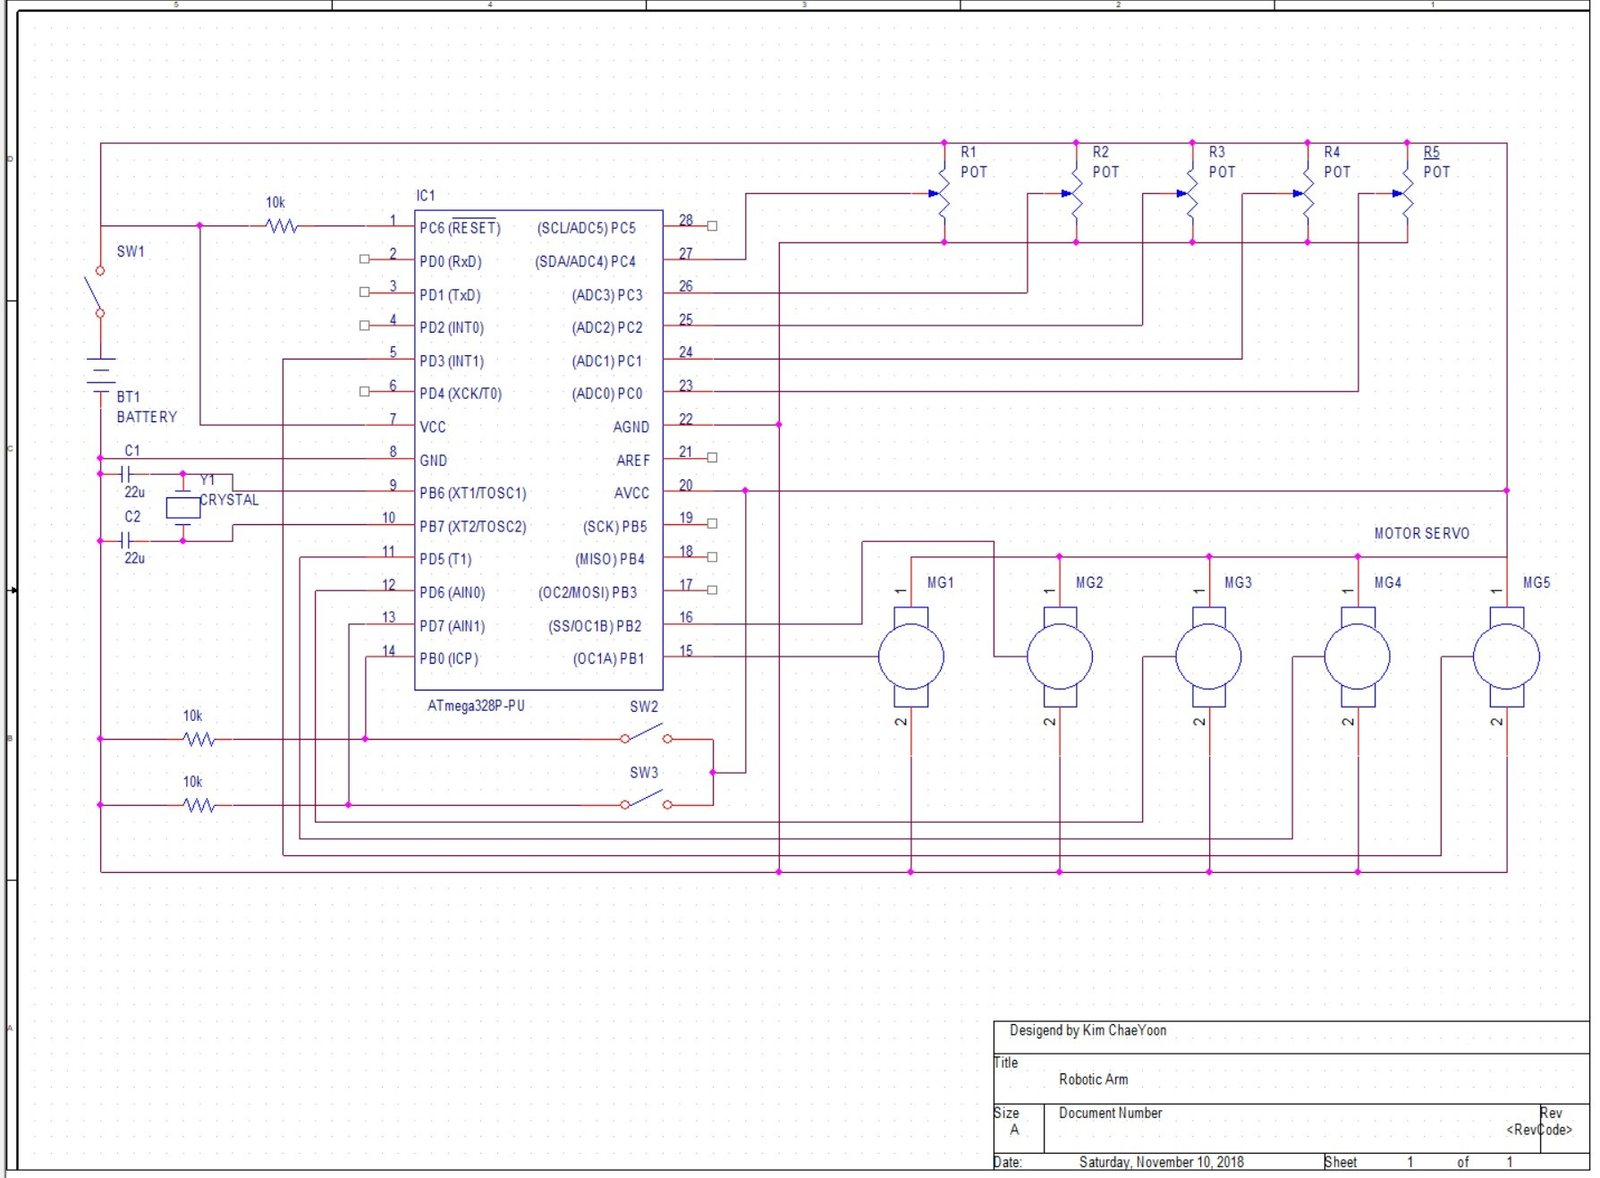
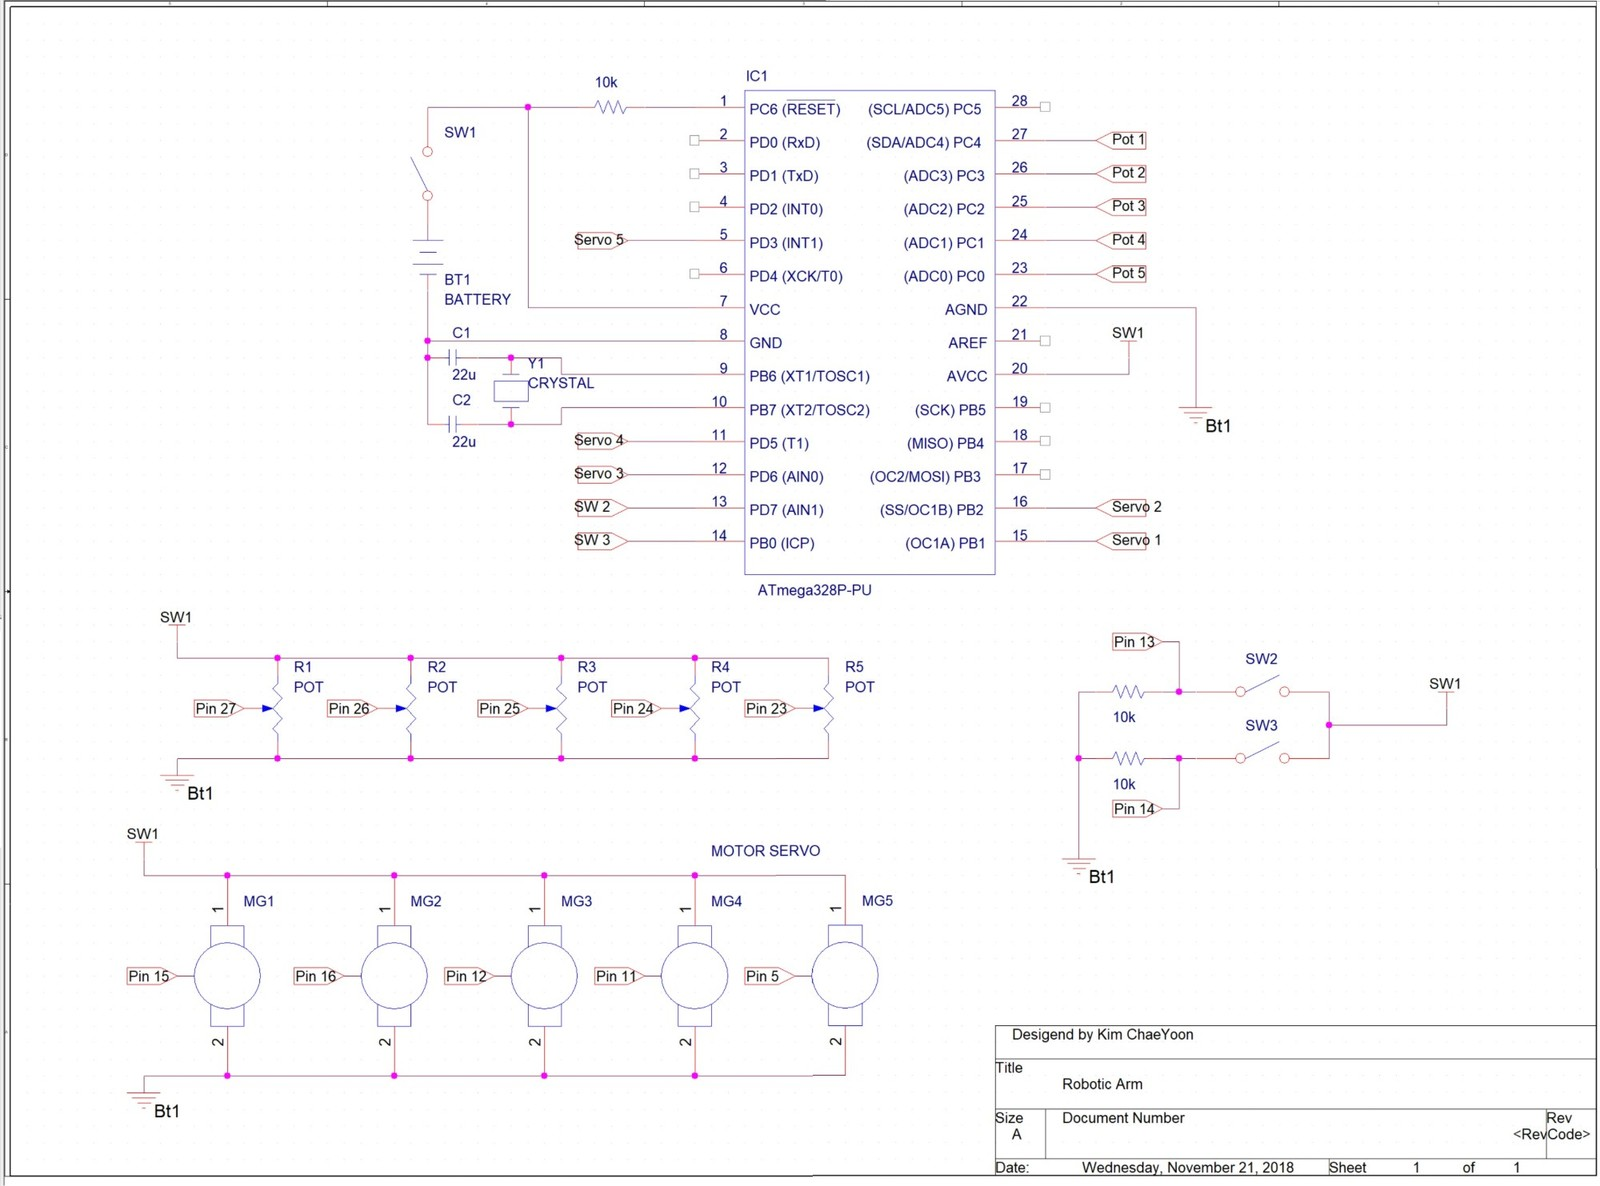
Robotic arm: add the firmware flowchart and the final schematic
- Gallery gains the firmware flowchart (setup/loop, Record and Play paths)
- The Nov 10 draft schematic is replaced by the final Nov 21 revision
- Gallery reordered to follow the approach: demo, arms, flowchart,
  schematic, 3D model, controller board, oscilloscope check

Claude-Session: https://claude.ai/code/session_01DyUfc2PrZu21zWjTtqWHuS

diff --git a/projects/assets/data.js b/projects/assets/data.js
@@ -3560,36 +3560,44 @@ window.PROJECTS = [
         "thumb": "img/robotic-arm-pid/thumbs/02-master-slave-arms.jpg"
       },
       {
-        "src": "img/robotic-arm-pid/03-master-arm-3d-model.jpg",
+        "src": "img/robotic-arm-pid/03-firmware-flowchart.png",
         "caption": {
-          "en": "3D model of the potentiometer master arm (Tinkercad).",
-          "ko": "포텐쇼미터 마스터 암 3D 모델 (Tinkercad)."
+          "en": "Firmware flowchart: after setup(), loop() reads the potentiometers (ADC), applies P control and drives the servos. When the Record button (Butt_R) is HIGH, Record() applies D control and stores the angles in an array; when the Play button (Butt_P) is HIGH, play() steps each servo toward the recorded angle until it matches.",
+          "ko": "펌웨어 순서도: setup() 이후 loop()에서 포텐쇼미터 값을 ADC로 읽고 P 제어를 거쳐 서보모터를 구동합니다. 녹화 버튼(Butt_R)이 HIGH이면 Record()가 D 제어를 거쳐 각도를 배열에 저장하고, 재생 버튼(Butt_P)이 HIGH이면 play()가 각 서보를 저장된 각도에 도달할 때까지 한 단계씩 움직입니다."
         },
-        "thumb": "img/robotic-arm-pid/thumbs/03-master-arm-3d-model.jpg"
+        "thumb": "img/robotic-arm-pid/thumbs/03-firmware-flowchart.jpg"
       },
       {
         "src": "img/robotic-arm-pid/04-circuit-schematic.jpg",
         "caption": {
-          "en": "Full schematic: ATmega328P-PU, five potentiometers, five servos, battery switch and Record/Play switches with 10 kΩ pull-downs.",
-          "ko": "전체 회로도: ATmega328P-PU, 포텐쇼미터 5개, 서보모터 5개, 전원 스위치, 10kΩ 풀다운 저항을 단 녹화/재생 스위치."
+          "en": "Circuit schematic (final revision, Nov 2018): an ATmega328P-PU with a crystal oscillator reads the five master-arm potentiometers on ADC0–ADC4 and drives the five servos (MG1–MG5) from pins 15, 16, 12, 11 and 5. The Record/Play switches (SW2, SW3) on pins 13 and 14 have 10 kΩ pull-downs, and SW1 switches the battery supply.",
+          "ko": "회로도(최종본, 2018.11): 크리스털 발진기를 단 ATmega328P-PU가 ADC0–ADC4로 마스터 암의 포텐쇼미터 5개를 읽고, 15·16·12·11·5번 핀으로 서보모터 5개(MG1–MG5)를 구동합니다. 13·14번 핀의 녹화/재생 스위치(SW2, SW3)에는 10kΩ 풀다운 저항을 달았고, SW1로 배터리 전원을 켜고 끕니다."
         },
         "thumb": "img/robotic-arm-pid/thumbs/04-circuit-schematic.jpg"
       },
       {
-        "src": "img/robotic-arm-pid/05-controller-pcb-annotated.jpg",
+        "src": "img/robotic-arm-pid/05-master-arm-3d-model.jpg",
+        "caption": {
+          "en": "3D model of the potentiometer master arm (Tinkercad).",
+          "ko": "포텐쇼미터 마스터 암 3D 모델 (Tinkercad)."
+        },
+        "thumb": "img/robotic-arm-pid/thumbs/05-master-arm-3d-model.jpg"
+      },
+      {
+        "src": "img/robotic-arm-pid/06-controller-pcb-annotated.jpg",
         "caption": {
           "en": "Two-tier controller board (callouts in Korean): ATmega328P, record/play switches, power switch, servo and potentiometer headers, with the Li-Po battery on the lower tier.",
           "ko": "2층 구조 제어 기판: ATmega328P, 녹화/재생 스위치, 전원 스위치, 서보·포텐쇼미터 커넥터와 아래층의 Li-Po 배터리."
         },
-        "thumb": "img/robotic-arm-pid/thumbs/05-controller-pcb-annotated.jpg"
+        "thumb": "img/robotic-arm-pid/thumbs/06-controller-pcb-annotated.jpg"
       },
       {
-        "src": "img/robotic-arm-pid/06-pwm-without-vs-with-pid.jpg",
+        "src": "img/robotic-arm-pid/07-pwm-without-vs-with-pid.jpg",
         "caption": {
           "en": "Oscilloscope captures from the capstone report: servo PWM without PID (left, Agilent scope, noisy) vs. with PID control (right, DSO138 handheld scope, clean pulse).",
           "ko": "캡스톤 보고서의 오실로스코프 측정: PID 미적용 서보 PWM(왼쪽, Agilent 오실로스코프, 노이즈 심함)과 PID 적용 파형(오른쪽, DSO138 휴대용 오실로스코프, 깨끗한 펄스)."
         },
-        "thumb": "img/robotic-arm-pid/thumbs/06-pwm-without-vs-with-pid.jpg"
+        "thumb": "img/robotic-arm-pid/thumbs/07-pwm-without-vs-with-pid.jpg"
       }
     ],
     "cardTagline": {

diff --git a/research/active-learning-pseudo-labeling/index.html b/research/active-learning-pseudo-labeling/index.html
@@ -41,7 +41,7 @@
     </div>
   </footer>
 
-  <script src="../../projects/assets/data.js?v=084a46c867"></script>
+  <script src="../../projects/assets/data.js?v=13cff8e38f"></script>
   <script src="../../projects/assets/app.js?v=2a158c0936"></script>
 </body>
 </html>

diff --git a/research/cad-synthetic-data/index.html b/research/cad-synthetic-data/index.html
@@ -41,7 +41,7 @@
     </div>
   </footer>
 
-  <script src="../../projects/assets/data.js?v=084a46c867"></script>
+  <script src="../../projects/assets/data.js?v=13cff8e38f"></script>
   <script src="../../projects/assets/app.js?v=2a158c0936"></script>
 </body>
 </html>

diff --git a/research/domain-adaptation-research/index.html b/research/domain-adaptation-research/index.html
@@ -41,7 +41,7 @@
     </div>
   </footer>
 
-  <script src="../../projects/assets/data.js?v=084a46c867"></script>
+  <script src="../../projects/assets/data.js?v=13cff8e38f"></script>
   <script src="../../projects/assets/app.js?v=2a158c0936"></script>
 </body>
 </html>

diff --git a/research/wsi-3d-registration/index.html b/research/wsi-3d-registration/index.html
@@ -41,7 +41,7 @@
     </div>
   </footer>
 
-  <script src="../../projects/assets/data.js?v=084a46c867"></script>
+  <script src="../../projects/assets/data.js?v=13cff8e38f"></script>
   <script src="../../projects/assets/app.js?v=2a158c0936"></script>
 </body>
 </html>

diff --git a/research/index.html b/research/index.html
@@ -50,7 +50,7 @@
     </div>
   </footer>
 
-  <script src="../projects/assets/data.js?v=084a46c867"></script>
+  <script src="../projects/assets/data.js?v=13cff8e38f"></script>
   <script src="../projects/assets/app.js?v=2a158c0936"></script>
 </body>
 </html>

diff --git a/projects/background-dependency/index.html b/projects/background-dependency/index.html
@@ -41,7 +41,7 @@
     </div>
   </footer>
 
-  <script src="../assets/data.js?v=084a46c867"></script>
+  <script src="../assets/data.js?v=13cff8e38f"></script>
   <script src="../assets/app.js?v=2a158c0936"></script>
 </body>
 </html>

diff --git a/projects/cansat/index.html b/projects/cansat/index.html
@@ -41,7 +41,7 @@
     </div>
   </footer>
 
-  <script src="../assets/data.js?v=084a46c867"></script>
+  <script src="../assets/data.js?v=13cff8e38f"></script>
   <script src="../assets/app.js?v=2a158c0936"></script>
 </body>
 </html>

diff --git a/projects/cnn-mlops/index.html b/projects/cnn-mlops/index.html
@@ -41,7 +41,7 @@
     </div>
   </footer>
 
-  <script src="../assets/data.js?v=084a46c867"></script>
+  <script src="../assets/data.js?v=13cff8e38f"></script>
   <script src="../assets/app.js?v=2a158c0936"></script>
 </body>
 </html>

diff --git a/projects/fpga-elevator/index.html b/projects/fpga-elevator/index.html
@@ -41,7 +41,7 @@
     </div>
   </footer>
 
-  <script src="../assets/data.js?v=084a46c867"></script>
+  <script src="../assets/data.js?v=13cff8e38f"></script>
   <script src="../assets/app.js?v=2a158c0936"></script>
 </body>
 </html>

diff --git a/projects/groundwater-monitoring/index.html b/projects/groundwater-monitoring/index.html
@@ -41,7 +41,7 @@
     </div>
   </footer>
 
-  <script src="../assets/data.js?v=084a46c867"></script>
+  <script src="../assets/data.js?v=13cff8e38f"></script>
   <script src="../assets/app.js?v=2a158c0936"></script>
 </body>
 </html>

diff --git a/projects/kaggle-great-barrier-reef/index.html b/projects/kaggle-great-barrier-reef/index.html
@@ -41,7 +41,7 @@
     </div>
   </footer>
 
-  <script src="../assets/data.js?v=084a46c867"></script>
+  <script src="../assets/data.js?v=13cff8e38f"></script>
   <script src="../assets/app.js?v=2a158c0936"></script>
 </body>
 </html>
